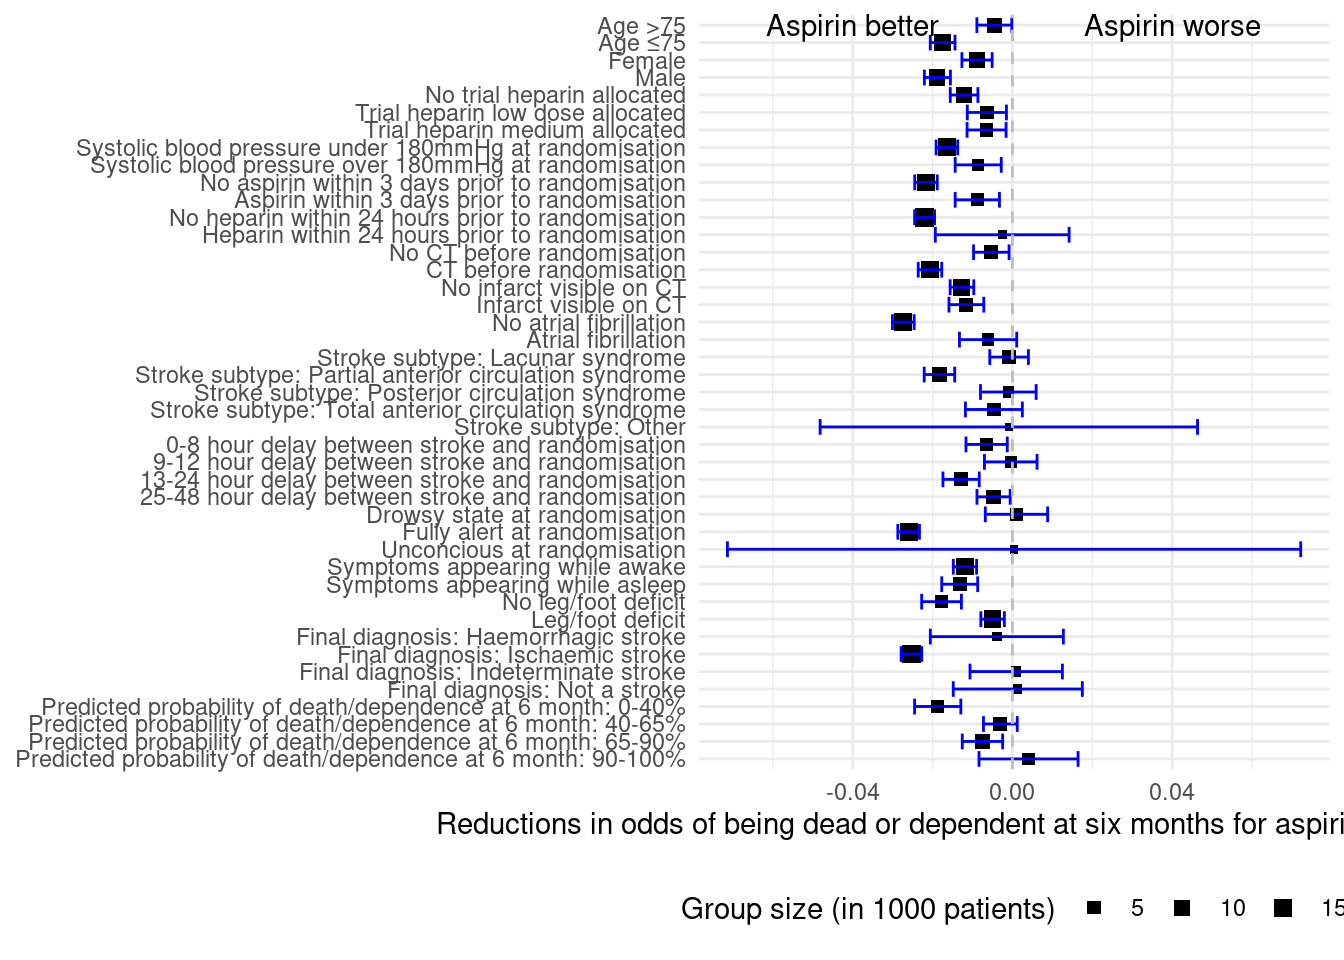
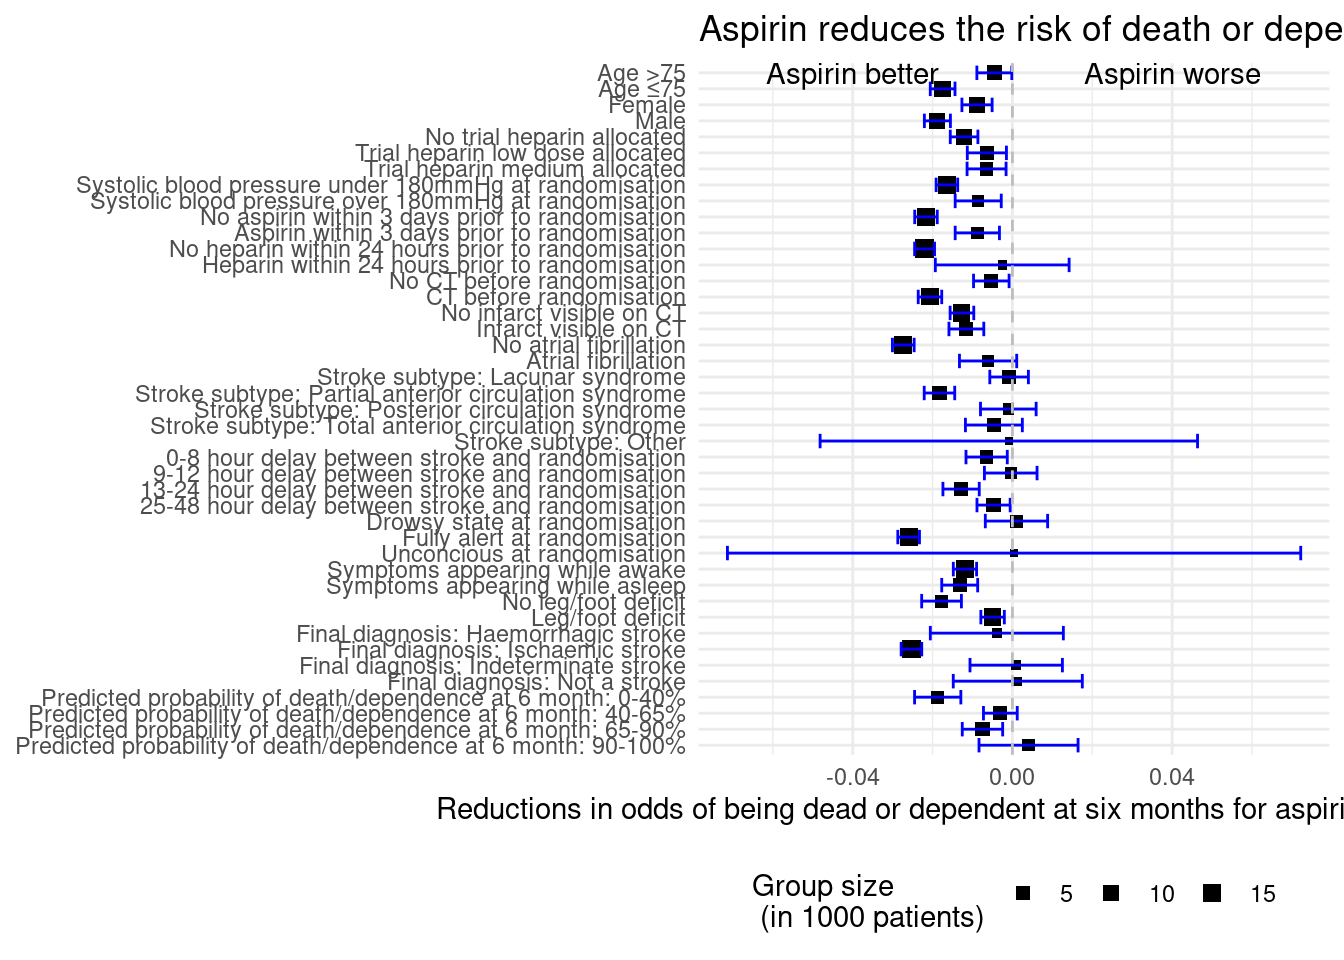
Adding figure titles

Changed region(s): [[0.0, 0.0, 1.0, 0.875], [0.5, 0.9062, 1.0, 0.9688]]

diff --git a/R/05_analysis_1.html b/R/05_analysis_1.html
@@ -304,13 +304,14 @@ lgl  (1): DDEAD
 <span id="cb11-8"><a href="#cb11-8" aria-hidden="true" tabindex="-1"></a>  <span class="fu">geom_vline</span>(<span class="at">xintercept =</span> <span class="dv">0</span>, <span class="at">color =</span> <span class="st">"grey"</span>, <span class="at">linetype =</span> <span class="dv">2</span>)<span class="sc">+</span></span>
 <span id="cb11-9"><a href="#cb11-9" aria-hidden="true" tabindex="-1"></a>  <span class="fu">scale_y_discrete</span>(<span class="at">labels =</span> full_labels_heparin)<span class="sc">+</span></span>
 <span id="cb11-10"><a href="#cb11-10" aria-hidden="true" tabindex="-1"></a>  <span class="fu">scale_size_continuous</span>(<span class="at">range =</span> <span class="fu">c</span>(<span class="dv">1</span>,<span class="dv">3</span>))<span class="sc">+</span></span>
-<span id="cb11-11"><a href="#cb11-11" aria-hidden="true" tabindex="-1"></a>  <span class="fu">labs</span>(<span class="at">x =</span> <span class="st">"Reductions in odds of being dead or dependent at six months for heparin versus no heparin"</span>,</span>
-<span id="cb11-12"><a href="#cb11-12" aria-hidden="true" tabindex="-1"></a>       <span class="at">size =</span> <span class="st">"Group size (in 1000 patients)"</span>)<span class="sc">+</span></span>
-<span id="cb11-13"><a href="#cb11-13" aria-hidden="true" tabindex="-1"></a>  <span class="fu">theme_minimal</span>()<span class="sc">+</span></span>
-<span id="cb11-14"><a href="#cb11-14" aria-hidden="true" tabindex="-1"></a>  <span class="fu">theme</span>(<span class="at">axis.title.y =</span> <span class="fu">element_blank</span>(),</span>
-<span id="cb11-15"><a href="#cb11-15" aria-hidden="true" tabindex="-1"></a>        <span class="at">legend.position =</span> <span class="st">"bottom"</span>)</span>
-<span id="cb11-16"><a href="#cb11-16" aria-hidden="true" tabindex="-1"></a></span>
-<span id="cb11-17"><a href="#cb11-17" aria-hidden="true" tabindex="-1"></a>p1</span></code><button title="Copy to Clipboard" class="code-copy-button"><i class="bi"></i></button></pre></div>
+<span id="cb11-11"><a href="#cb11-11" aria-hidden="true" tabindex="-1"></a>  <span class="fu">labs</span>(<span class="at">title =</span> <span class="st">"Heparin reduces the risk of death or dependence after 6 months for only a few subgroups"</span>,</span>
+<span id="cb11-12"><a href="#cb11-12" aria-hidden="true" tabindex="-1"></a>       <span class="at">x =</span> <span class="st">"Reductions in odds of being dead or dependent at six months for heparin versus no heparin"</span>,</span>
+<span id="cb11-13"><a href="#cb11-13" aria-hidden="true" tabindex="-1"></a>       <span class="at">size =</span> <span class="st">"Group size </span><span class="sc">\n</span><span class="st"> (in 1000 patients)"</span>)<span class="sc">+</span></span>
+<span id="cb11-14"><a href="#cb11-14" aria-hidden="true" tabindex="-1"></a>  <span class="fu">theme_minimal</span>()<span class="sc">+</span></span>
+<span id="cb11-15"><a href="#cb11-15" aria-hidden="true" tabindex="-1"></a>  <span class="fu">theme</span>(<span class="at">axis.title.y =</span> <span class="fu">element_blank</span>(),</span>
+<span id="cb11-16"><a href="#cb11-16" aria-hidden="true" tabindex="-1"></a>        <span class="at">legend.position =</span> <span class="st">"bottom"</span>)</span>
+<span id="cb11-17"><a href="#cb11-17" aria-hidden="true" tabindex="-1"></a></span>
+<span id="cb11-18"><a href="#cb11-18" aria-hidden="true" tabindex="-1"></a>p1</span></code><button title="Copy to Clipboard" class="code-copy-button"><i class="bi"></i></button></pre></div>
 <div class="cell-output-display">
 <div>
 <figure class="figure">
@@ -485,15 +486,16 @@ lgl  (1): DDEAD
 <span id="cb17-8"><a href="#cb17-8" aria-hidden="true" tabindex="-1"></a>  <span class="fu">geom_vline</span>(<span class="at">xintercept =</span> <span class="dv">0</span>, <span class="at">color =</span> <span class="st">"grey"</span>, <span class="at">linetype =</span> <span class="dv">2</span>)<span class="sc">+</span></span>
 <span id="cb17-9"><a href="#cb17-9" aria-hidden="true" tabindex="-1"></a>  <span class="fu">scale_y_discrete</span>(<span class="at">labels =</span> full_labels_aspirin)<span class="sc">+</span></span>
 <span id="cb17-10"><a href="#cb17-10" aria-hidden="true" tabindex="-1"></a>  <span class="fu">scale_size_continuous</span>(<span class="at">range =</span> <span class="fu">c</span>(<span class="dv">1</span>,<span class="dv">3</span>))<span class="sc">+</span></span>
-<span id="cb17-11"><a href="#cb17-11" aria-hidden="true" tabindex="-1"></a>  <span class="fu">labs</span>(<span class="at">x =</span> <span class="st">"Reductions in odds of being dead or dependent at six months for aspirin versus no aspirin"</span>,</span>
-<span id="cb17-12"><a href="#cb17-12" aria-hidden="true" tabindex="-1"></a>       <span class="at">size =</span> <span class="st">"Group size (in 1000 patients)"</span>)<span class="sc">+</span></span>
-<span id="cb17-13"><a href="#cb17-13" aria-hidden="true" tabindex="-1"></a>  <span class="fu">theme_minimal</span>()<span class="sc">+</span></span>
-<span id="cb17-14"><a href="#cb17-14" aria-hidden="true" tabindex="-1"></a>  <span class="fu">theme</span>(<span class="at">axis.title.y =</span> <span class="fu">element_blank</span>(),</span>
-<span id="cb17-15"><a href="#cb17-15" aria-hidden="true" tabindex="-1"></a>        <span class="at">legend.position =</span> <span class="st">"bottom"</span>)<span class="sc">+</span></span>
-<span id="cb17-16"><a href="#cb17-16" aria-hidden="true" tabindex="-1"></a>  <span class="fu">annotate</span>(<span class="st">"text"</span>, <span class="at">x=</span><span class="sc">-</span><span class="fl">0.04</span>, <span class="at">y=</span><span class="st">"AGE_group_&gt;75"</span>, <span class="at">label=</span> <span class="st">"Aspirin better"</span>) <span class="sc">+</span> </span>
-<span id="cb17-17"><a href="#cb17-17" aria-hidden="true" tabindex="-1"></a>  <span class="fu">annotate</span>(<span class="st">"text"</span>, <span class="at">x =</span> <span class="fl">0.04</span>, <span class="at">y=</span><span class="st">"AGE_group_&gt;75"</span>, <span class="at">label =</span> <span class="st">"Aspirin worse"</span>)</span>
-<span id="cb17-18"><a href="#cb17-18" aria-hidden="true" tabindex="-1"></a></span>
-<span id="cb17-19"><a href="#cb17-19" aria-hidden="true" tabindex="-1"></a>p2</span></code><button title="Copy to Clipboard" class="code-copy-button"><i class="bi"></i></button></pre></div>
+<span id="cb17-11"><a href="#cb17-11" aria-hidden="true" tabindex="-1"></a>  <span class="fu">labs</span>(<span class="at">title =</span> <span class="st">"Aspirin reduces the risk of death or dependence after 6 months for many subgroups"</span>,</span>
+<span id="cb17-12"><a href="#cb17-12" aria-hidden="true" tabindex="-1"></a>       <span class="at">x =</span> <span class="st">"Reductions in odds of being dead or dependent at six months for aspirin versus no aspirin"</span>,</span>
+<span id="cb17-13"><a href="#cb17-13" aria-hidden="true" tabindex="-1"></a>       <span class="at">size =</span> <span class="st">"Group size </span><span class="sc">\n</span><span class="st"> (in 1000 patients)"</span>)<span class="sc">+</span></span>
+<span id="cb17-14"><a href="#cb17-14" aria-hidden="true" tabindex="-1"></a>  <span class="fu">theme_minimal</span>()<span class="sc">+</span></span>
+<span id="cb17-15"><a href="#cb17-15" aria-hidden="true" tabindex="-1"></a>  <span class="fu">theme</span>(<span class="at">axis.title.y =</span> <span class="fu">element_blank</span>(),</span>
+<span id="cb17-16"><a href="#cb17-16" aria-hidden="true" tabindex="-1"></a>        <span class="at">legend.position =</span> <span class="st">"bottom"</span>)<span class="sc">+</span></span>
+<span id="cb17-17"><a href="#cb17-17" aria-hidden="true" tabindex="-1"></a>  <span class="fu">annotate</span>(<span class="st">"text"</span>, <span class="at">x=</span><span class="sc">-</span><span class="fl">0.04</span>, <span class="at">y=</span><span class="st">"AGE_group_&gt;75"</span>, <span class="at">label=</span> <span class="st">"Aspirin better"</span>) <span class="sc">+</span> </span>
+<span id="cb17-18"><a href="#cb17-18" aria-hidden="true" tabindex="-1"></a>  <span class="fu">annotate</span>(<span class="st">"text"</span>, <span class="at">x =</span> <span class="fl">0.04</span>, <span class="at">y=</span><span class="st">"AGE_group_&gt;75"</span>, <span class="at">label =</span> <span class="st">"Aspirin worse"</span>)</span>
+<span id="cb17-19"><a href="#cb17-19" aria-hidden="true" tabindex="-1"></a></span>
+<span id="cb17-20"><a href="#cb17-20" aria-hidden="true" tabindex="-1"></a>p2</span></code><button title="Copy to Clipboard" class="code-copy-button"><i class="bi"></i></button></pre></div>
 <div class="cell-output-display">
 <div>
 <figure class="figure">
@@ -507,13 +509,13 @@ lgl  (1): DDEAD
 <section id="save-the-results" class="level2">
 <h2 class="anchored" data-anchor-id="save-the-results">Save the results</h2>
 <div class="cell">
-<div class="sourceCode cell-code" id="cb18"><pre class="sourceCode r code-with-copy"><code class="sourceCode r"><span id="cb18-1"><a href="#cb18-1" aria-hidden="true" tabindex="-1"></a>p1<span class="sc">+</span>p2</span></code><button title="Copy to Clipboard" class="code-copy-button"><i class="bi"></i></button></pre></div>
-<div class="cell-output-display">
-<div>
-<figure class="figure">
-<p><img src="05_analysis_1_files/figure-html/unnamed-chunk-15-1.png" class="img-fluid figure-img" width="672"></p>
-</figure>
+<div class="sourceCode cell-code" id="cb18"><pre class="sourceCode r code-with-copy"><code class="sourceCode r"><span id="cb18-1"><a href="#cb18-1" aria-hidden="true" tabindex="-1"></a><span class="fu">ggsave</span>(<span class="at">filename =</span> <span class="st">"../results/05_keyplot_2a.png"</span>, <span class="at">plot =</span> p1)</span></code><button title="Copy to Clipboard" class="code-copy-button"><i class="bi"></i></button></pre></div>
+<div class="cell-output cell-output-stderr">
+<pre><code>Saving 7 x 5 in image</code></pre>
 </div>
+<div class="sourceCode cell-code" id="cb20"><pre class="sourceCode r code-with-copy"><code class="sourceCode r"><span id="cb20-1"><a href="#cb20-1" aria-hidden="true" tabindex="-1"></a><span class="fu">ggsave</span>(<span class="at">filename =</span> <span class="st">"../results/05_keyplot_2b.png"</span>, <span class="at">plot =</span> p2)</span></code><button title="Copy to Clipboard" class="code-copy-button"><i class="bi"></i></button></pre></div>
+<div class="cell-output cell-output-stderr">
+<pre><code>Saving 7 x 5 in image</code></pre>
 </div>
 </div>
 </section>
